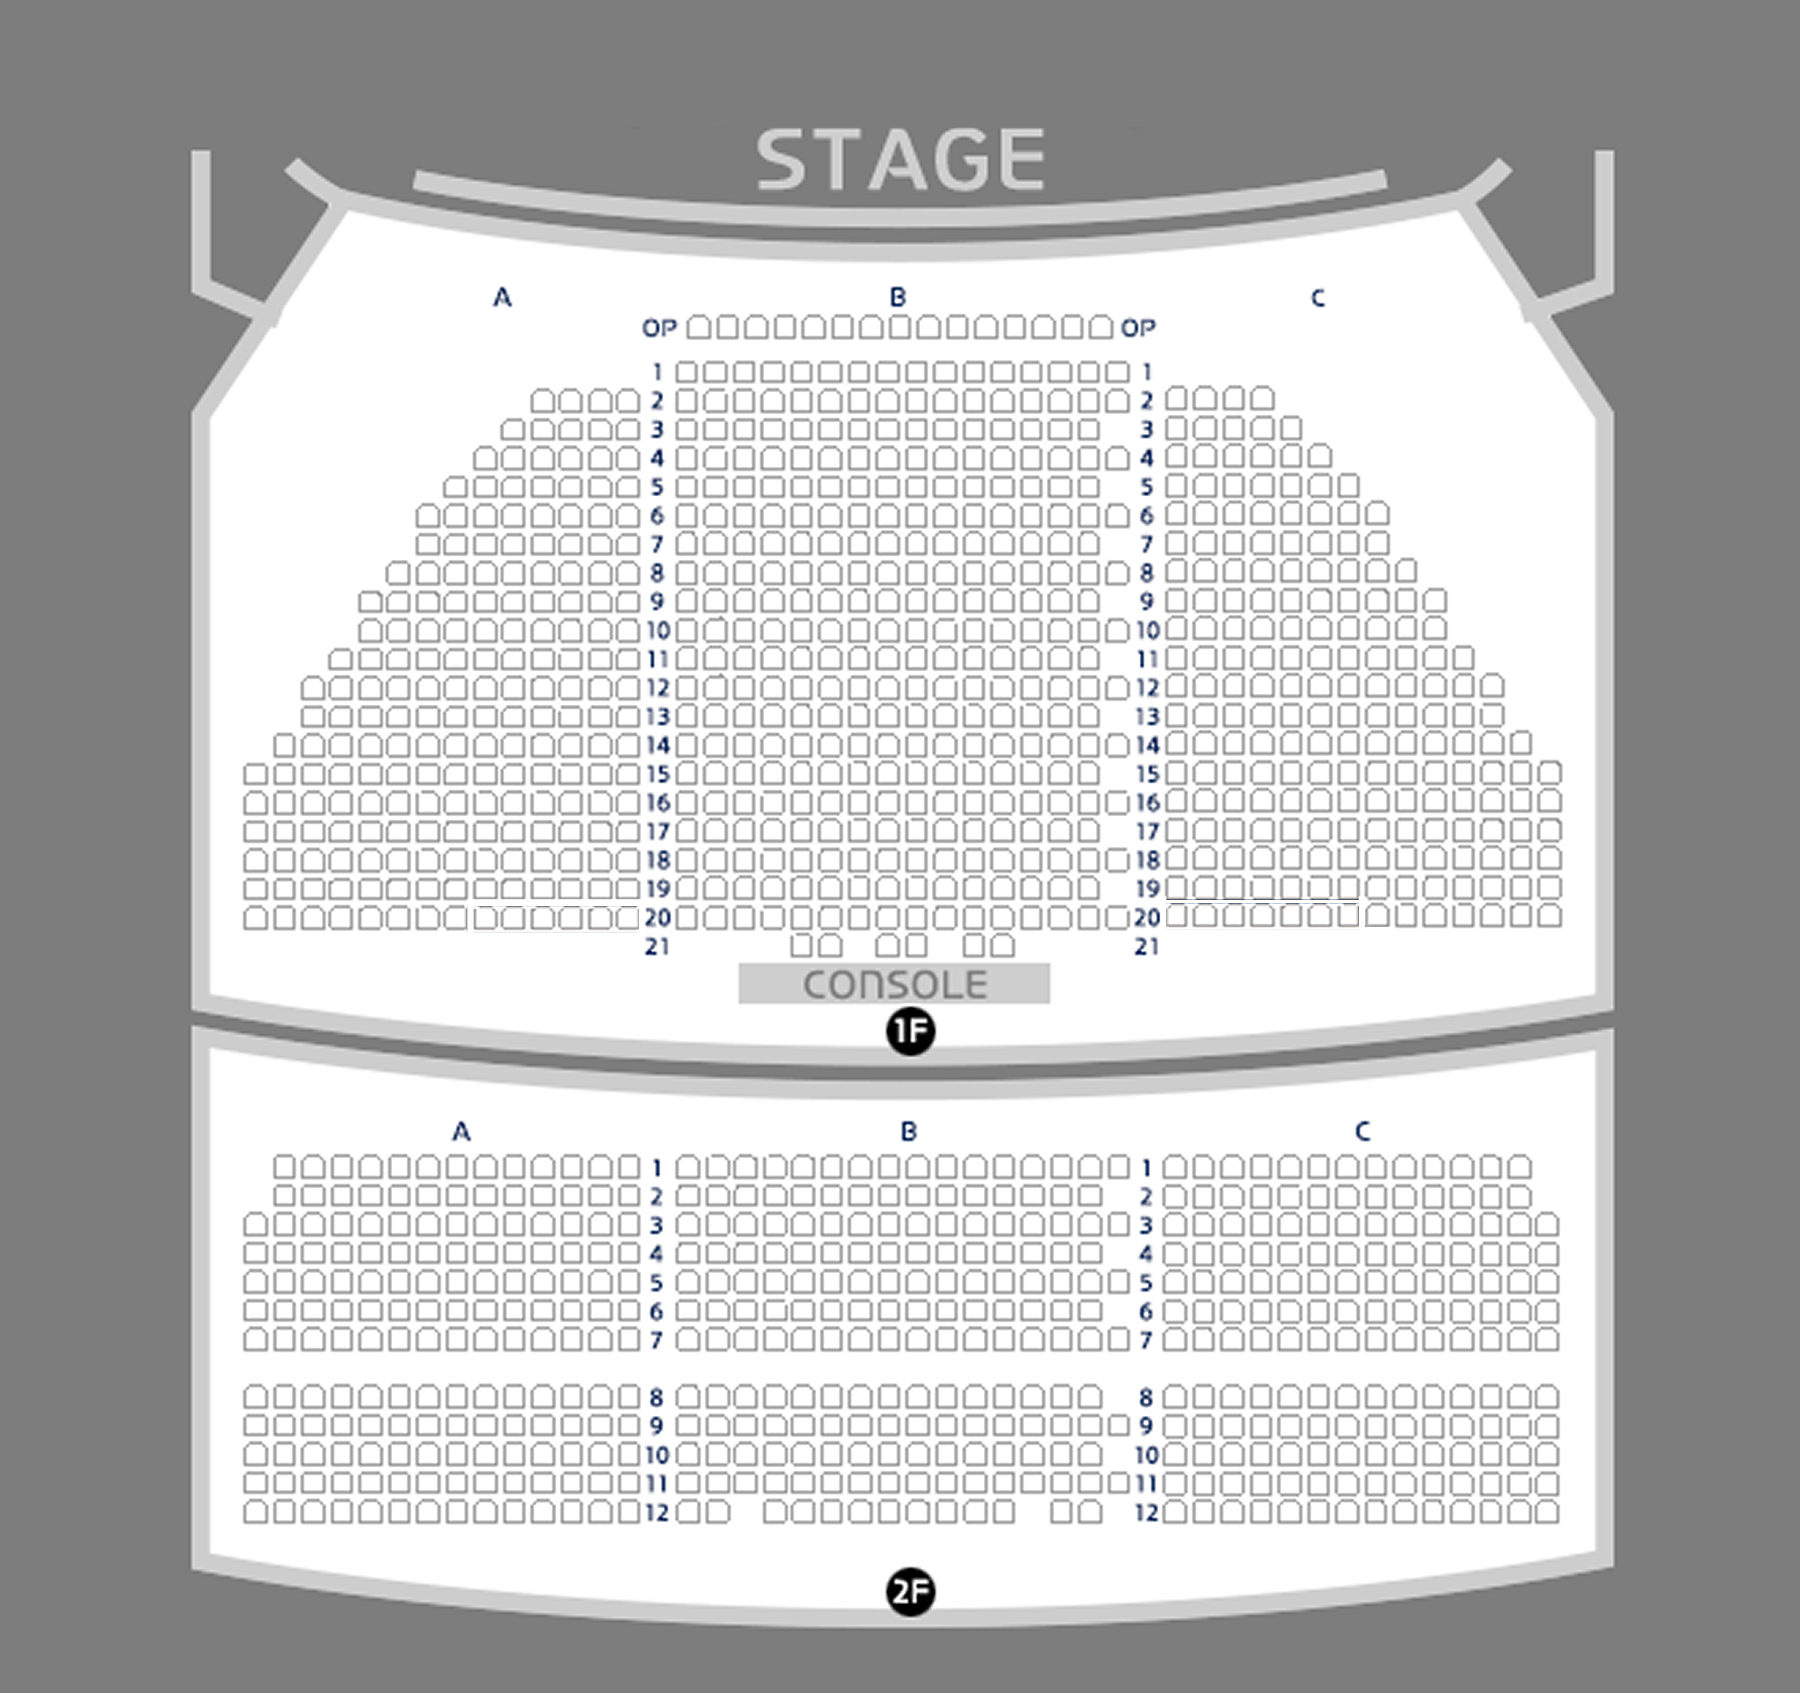
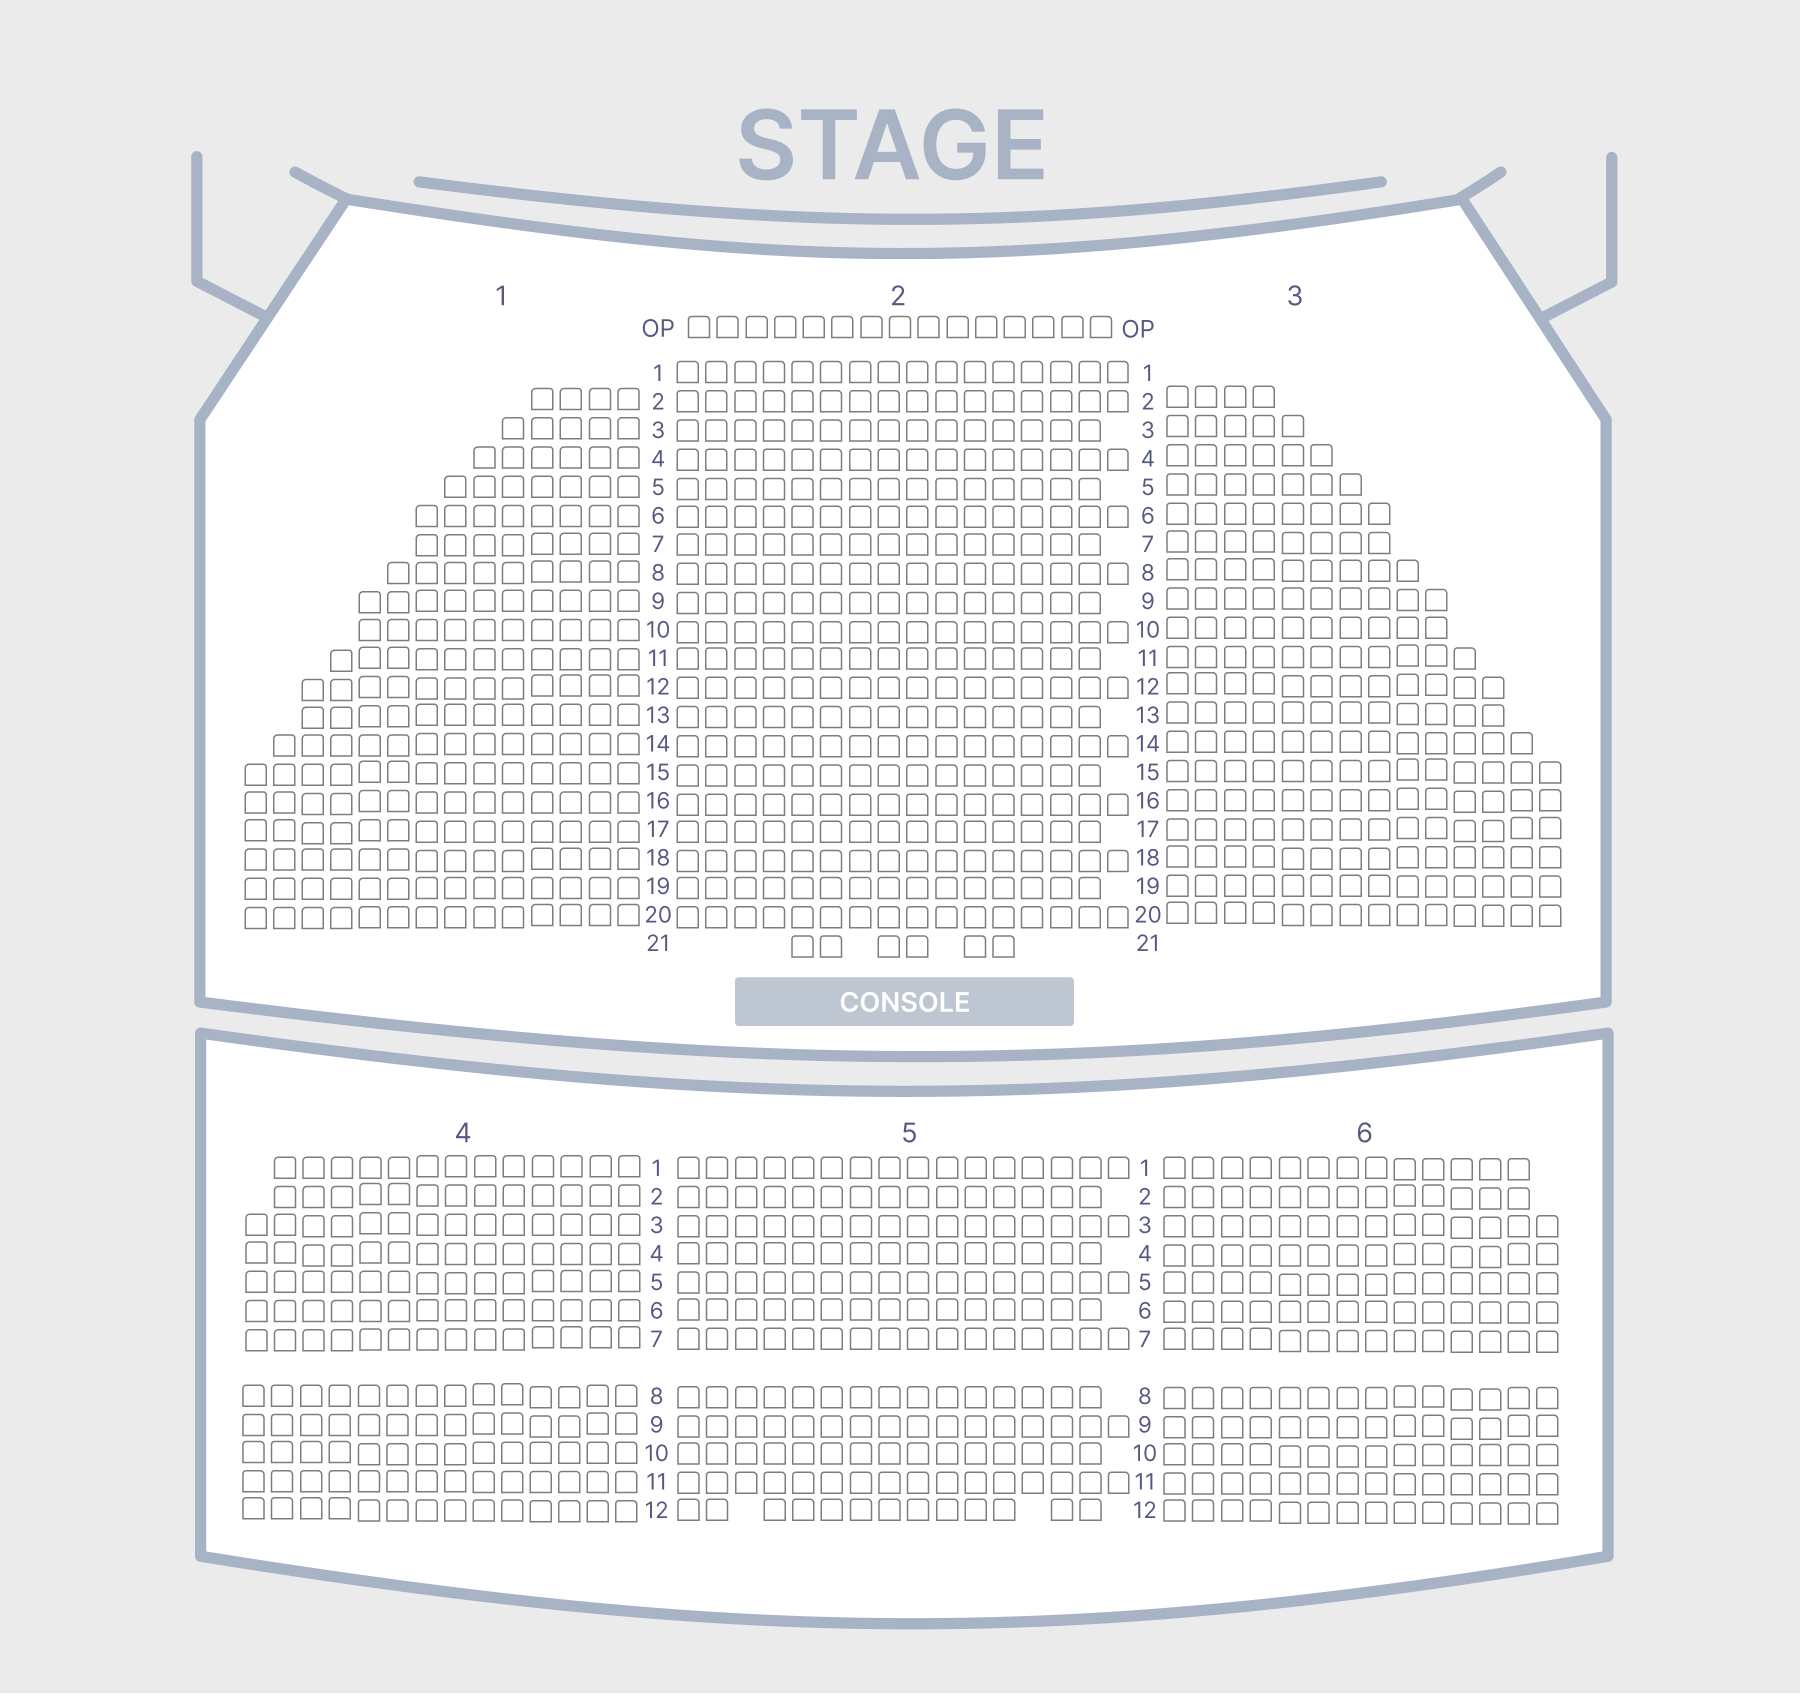
feat: update SelectSeatPage UI and enhance seat selection experience
- Replaced header background and button styles for improved visual appeal.
- Removed unnecessary booking button to streamline the interface.
- Enhanced seat information display with a new table format for better readability.
- Added navigation icons for a more intuitive user experience.

diff --git a/Frontend/src/pages/site/exterpark-site/exterpark-booking/SelectSeat.tsx b/Frontend/src/pages/site/exterpark-site/exterpark-booking/SelectSeat.tsx
@@ -1,4 +1,7 @@
 import { useEffect, useMemo, useState, type CSSProperties } from "react";
+import ArrowForwardIosIcon from "@mui/icons-material/ArrowForwardIos";
+import ArrowBackIosNewIcon from "@mui/icons-material/ArrowBackIosNew";
+import RefreshIcon from "@mui/icons-material/Refresh";
 import { useNavigate, useSearchParams } from "react-router-dom";
 import { paths } from "../../../../app/routes/paths";
 import {
@@ -210,9 +213,9 @@ export default function SelectSeatPage() {
         {/* 헤더 900 x 50 */}
         <div className="w-[880px] h-[50px] bg-[linear-gradient(to_bottom,#f2f2f2,#dbdbdb)] border-b border-[#bdbdbd]">
           <div className="h-full flex items-center gap-3">
-            <div className="flex items-center bg-[#b02a2a] text-white rounded-none px-12 h-12.5">
-              <span className="bg-[#ffcc33] text-black font-extrabold text-[11px] rounded-full w-6 h-6 flex items-center justify-center mr-2">
-                02
+            <div className="flex items-center bg-[linear-gradient(to_bottom,#4383fb,#104bb7)] text-white rounded-none px-12 h-12.5">
+              <span className="text-[#ffcc33] font-extrabold text-[18px] rounded-full w-6 h-6 flex items-center justify-center mr-2">
+                02/
               </span>
               <span className="text-md font-semibold">좌석 선택</span>
             </div>
@@ -268,11 +271,7 @@ export default function SelectSeatPage() {
                 </select>
               </div>
             </div>
-            <div>
-              <button className="text-[11px] bg-[#f5f5f5] border border-[#cfcfcf] rounded px-2 py-1 text-[#777]">
-                예매대기
-              </button>
-            </div>
+            {/* 상단 우측 부가 버튼 제거 (예매대기 불필요) */}
           </div>
         </div>
         {/* 본문 880 x 680 (내부 좌우 10 마진 → 880폭) */}
@@ -321,67 +320,81 @@ export default function SelectSeatPage() {
             {/* 우측: 사이드 정보 220 x 620 */}
             <aside className="w-[220px] h-[620px] space-y-3">
               <div className="bg-white rounded-md border border-[#e3e3e3] shadow">
-                <div className="px-3 py-2 bg-[#b02a2a] text-white font-bold rounded-t-md flex items-center justify-between">
-                  <span>좌석도 전체보기</span>
-                  <span>▶</span>
+                <div className="px-3 py-2 bg-[linear-gradient(to_right,#104bb7,#4383fb,#4383fb,#4383fb,#104bb7)] text-white font-semibold rounded-t-md">
+                  ≪ 좌석도 전체보기
+                </div>
+                <div className="h-[1px] bg-[#e5e5e5] opacity-80" />
+                <div className="px-3 py-2 text-[12px] text-[#666]">
+                  원하시는 좌석 위치를 선택하세요
                 </div>
                 <div className="p-2 text-sm">
                   <div className="font-semibold mb-2">좌석등급 / 잔여석</div>
-                  <ul className="space-y-1">
-                    {/** 데모이므로 잔여석 수치는 임의 표기 */}
-                    <li className="flex items-center justify-between">
-                      <div className="flex items-center gap-2">
-                        <span
-                          className="inline-block w-3 h-3 rounded-sm"
-                          style={{ background: GRADE_META.SR.color }}
-                        />{" "}
-                        SR석 1,820석
-                      </div>
-                      <div className="text-gray-700">
-                        {GRADE_META.SR.price.toLocaleString()}원
-                      </div>
-                    </li>
-                    <li className="flex items-center justify-between">
-                      <div className="flex items-center gap-2">
-                        <span
-                          className="inline-block w-3 h-3 rounded-sm"
-                          style={{ background: GRADE_META.R.color }}
-                        />{" "}
-                        R석 752석
-                      </div>
-                      <div className="text-gray-700">
-                        {GRADE_META.R.price.toLocaleString()}원
-                      </div>
-                    </li>
-                    <li className="flex items-center justify-between">
-                      <div className="flex items-center gap-2">
-                        <span
-                          className="inline-block w-3 h-3 rounded-sm"
-                          style={{ background: GRADE_META.S.color }}
-                        />{" "}
-                        S석 436석
-                      </div>
-                      <div className="text-gray-700">
-                        {GRADE_META.S.price.toLocaleString()}원
-                      </div>
-                    </li>
-                  </ul>
+                  <div className="rounded border border-[#ececec] p-2">
+                    <table className="w-full text-sm">
+                      <tbody>
+                        <tr>
+                          <td>
+                            <div className="flex items-center gap-2">
+                              <span
+                                className="inline-block w-3 h-3 rounded-sm"
+                                style={{ background: GRADE_META.SR.color }}
+                              />
+                              SR석 1,820석
+                            </div>
+                          </td>
+                          <td className="text-right text-gray-700">
+                            {GRADE_META.SR.price.toLocaleString()}원
+                          </td>
+                        </tr>
+                        <tr>
+                          <td>
+                            <div className="flex items-center gap-2">
+                              <span
+                                className="inline-block w-3 h-3 rounded-sm"
+                                style={{ background: GRADE_META.R.color }}
+                              />
+                              R석 752석
+                            </div>
+                          </td>
+                          <td className="text-right text-gray-700">
+                            {GRADE_META.R.price.toLocaleString()}원
+                          </td>
+                        </tr>
+                        <tr>
+                          <td>
+                            <div className="flex items-center gap-2">
+                              <span
+                                className="inline-block w-3 h-3 rounded-sm"
+                                style={{ background: GRADE_META.S.color }}
+                              />
+                              S석 436석
+                            </div>
+                          </td>
+                          <td className="text-right text-gray-700">
+                            {GRADE_META.S.price.toLocaleString()}원
+                          </td>
+                        </tr>
+                      </tbody>
+                    </table>
+                  </div>
                 </div>
               </div>
 
               <div className="bg-white rounded-md border border-[#e3e3e3] shadow">
-                <div className="font-semibold mb-2">선택좌석</div>
-                <div className="px-3 py-2 text-[#b02a2a] text-right text-sm border-b">
-                  총 {selected.length}석 선택되었습니다.
+                <div className="px-3 py-2 flex items-center justify-between border-b">
+                  <div className="font-semibold">선택좌석</div>
+                  <div className="text-[#b02a2a] text-sm">
+                    총 {selected.length}석 선택되었습니다.
+                  </div>
                 </div>
                 <div className="p-2">
                   <table className="w-full text-sm">
                     <thead>
                       <tr className="text-gray-500">
-                        <th className="text-left font-normal w-24 whitespace-nowrap">
+                        <th className="text-left font-normal w-24 whitespace-nowrap bg-[#f7f7f7] px-2">
                           좌석등급
                         </th>
-                        <th className="text-left font-normal whitespace-nowrap">
+                        <th className="text-left font-normal whitespace-nowrap px-2">
                           좌석번호
                         </th>
                       </tr>
@@ -425,21 +438,26 @@ export default function SelectSeatPage() {
                   <button
                     disabled={selected.length === 0}
                     onClick={complete}
-                    className="mt-3 w-full py-3 rounded font-bold bg-[#c62828] text-white hover:bg-[#b71c1c] disabled:hover:bg-[#c62828] disabled:cursor-not-allowed"
+                    className="mt-3 w-full py-3 rounded font-bold bg-[linear-gradient(to_bottom,#4383fb,#104bb7)] text-white disabled:cursor-not-allowed"
                   >
-                    좌석선택완료 ▸
+                    <span className="inline-flex items-center gap-1">
+                      좌석선택완료
+                      <ArrowForwardIosIcon style={{ fontSize: 14 }} />
+                    </span>
                   </button>
                   <div className="mt-2 flex items-center gap-2 text-sm">
                     <button
                       onClick={goPrev}
-                      className="flex-1 border rounded px-2 py-2 bg-[#f4f4f4] hover:bg-[#ececec]"
+                      className="flex-1 text-[12px] border rounded px-1 py-2 bg-[#f4f4f4] hover:bg-[#ececec] inline-flex items-center justify-center gap-1"
                     >
+                      <ArrowBackIosNewIcon style={{ fontSize: 12 }} />
                       이전단계
                     </button>
                     <button
                       onClick={clearSelection}
-                      className="flex-1 border rounded px-2 py-2 bg-[#f4f4f4] hover:bg-[#ececec]"
+                      className="flex-1 text-[12px] border rounded px-1 py-2 bg-[#f4f4f4] hover:bg-[#ececec] inline-flex items-center justify-center gap-1"
                     >
+                      <RefreshIcon style={{ fontSize: 14 }} />
                       좌석 다시 선택
                     </button>
                   </div>
